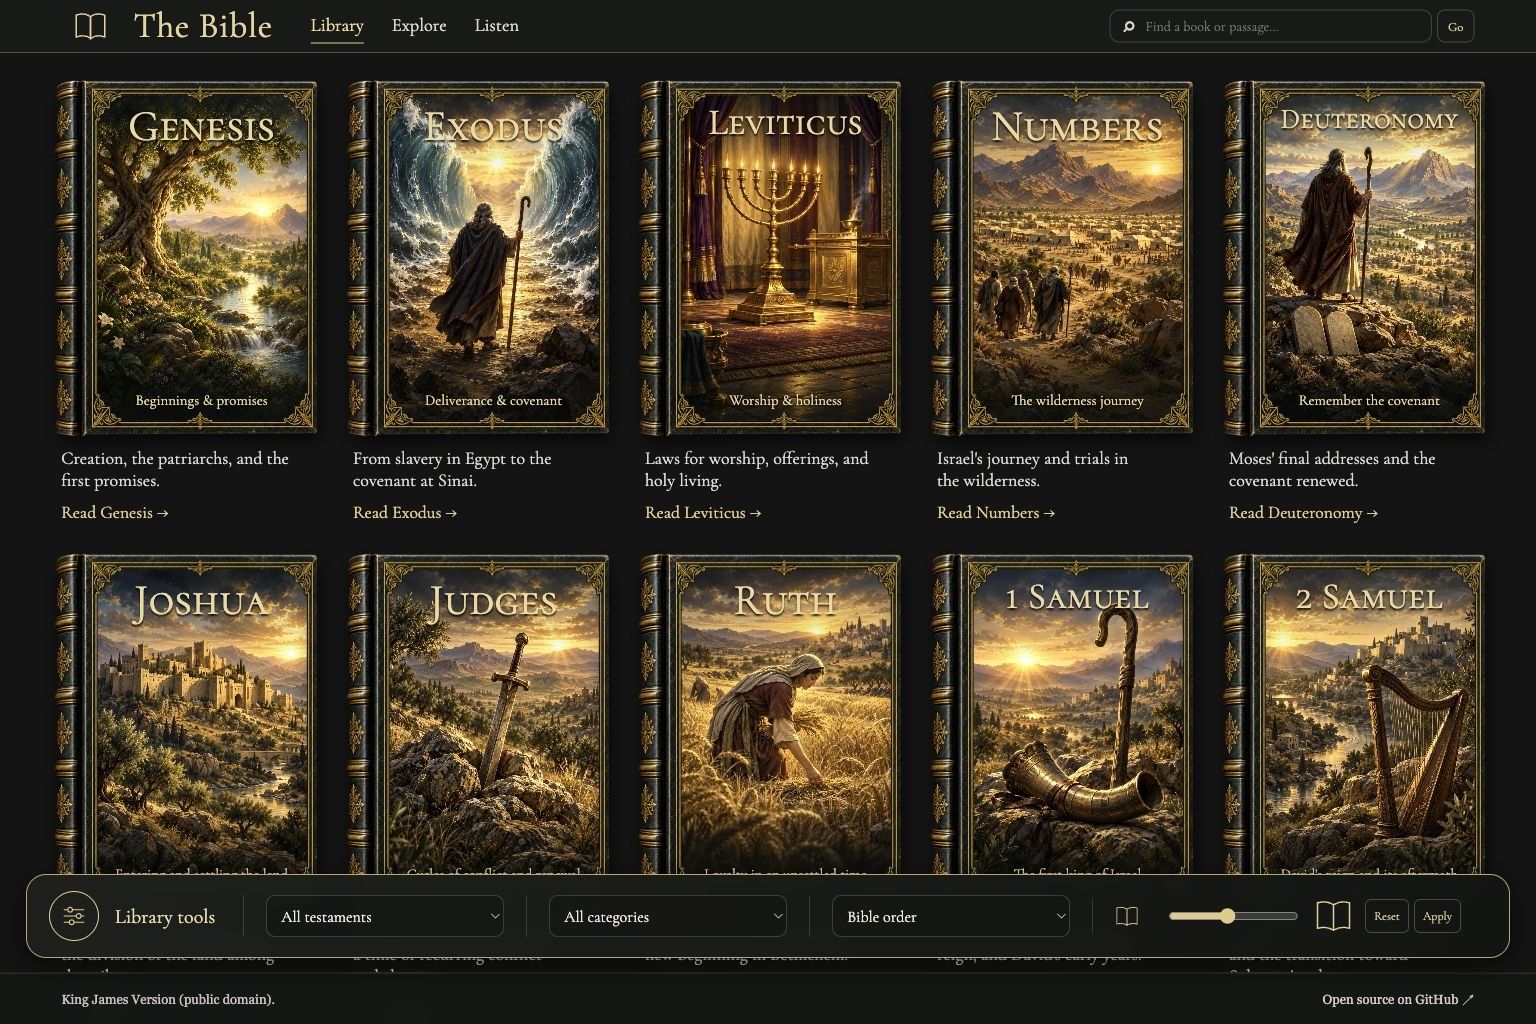
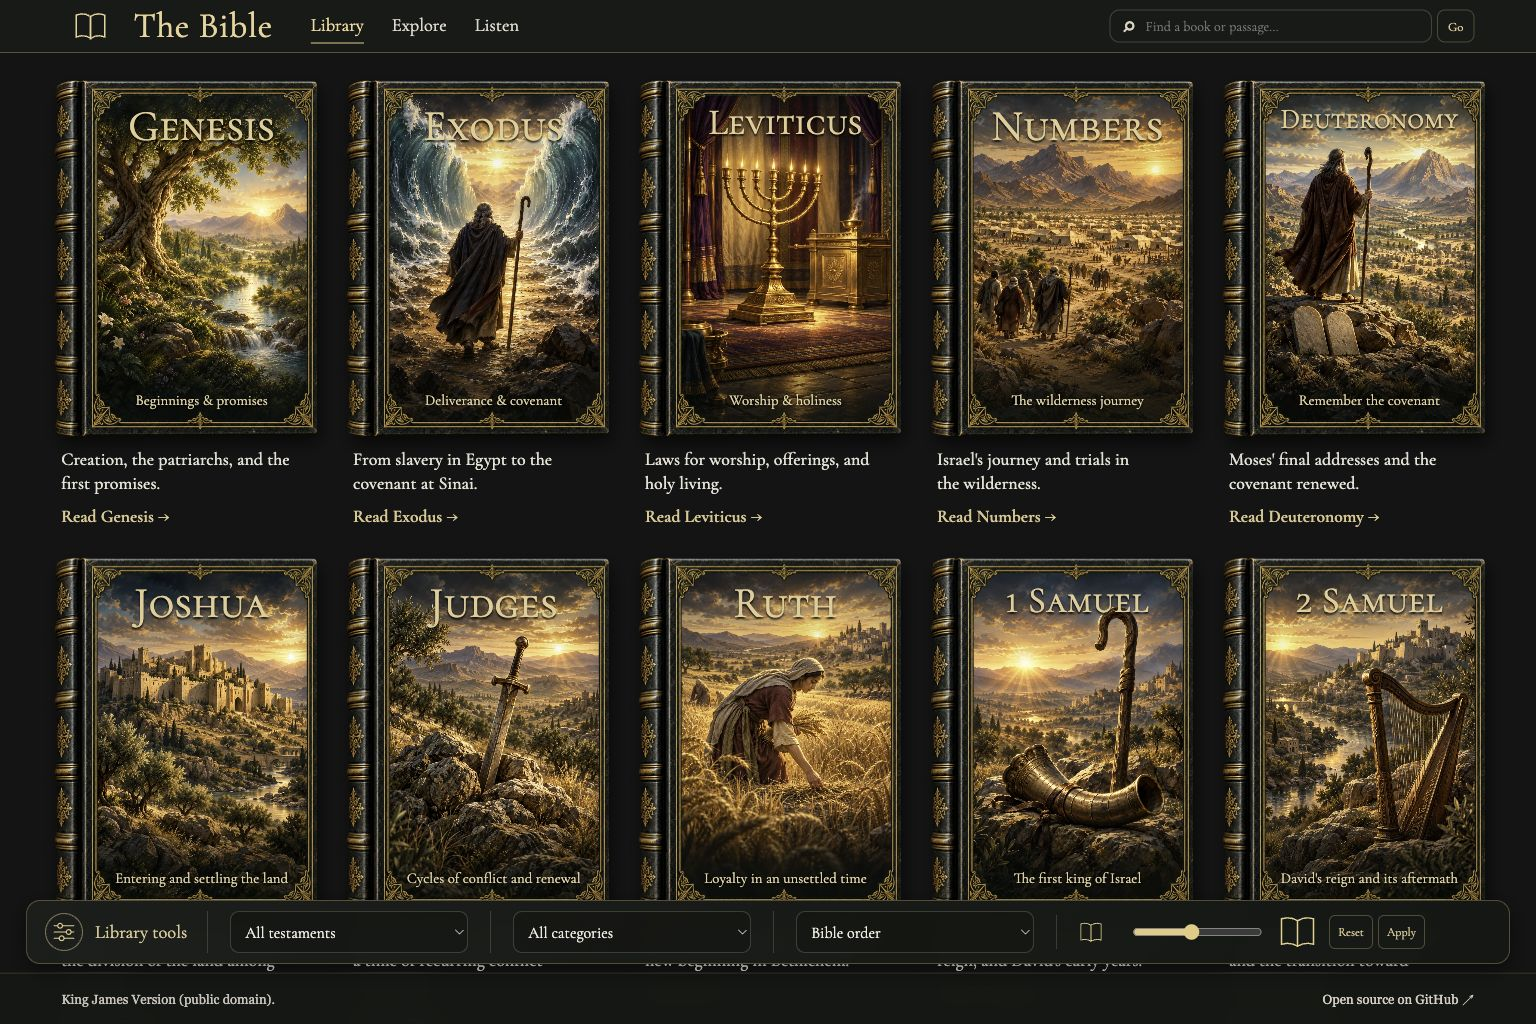
Improve Library readability and soften cover and toolbar styling

Changed region(s): [[0.0312, 0.4375, 0.9688, 0.9688]]

diff --git a/web/style.css b/web/style.css
@@ -168,11 +168,11 @@ main.wrap:has(.library-page){max-width:1536px;width:100%;padding:27px 3.6% 125px
 .book-category{display:none}
 .book-read-link{display:inline-block;margin-left:13px;color:#efcc80;font-size:1rem;line-height:1.4;min-height:26px}
 .book-cover:hover{transform:translateY(-3px);filter:drop-shadow(3px 12px 12px #000b);text-decoration:none}.book-cover:focus-visible{outline:2px solid #ffe2a5;outline-offset:5px}.book-read-link:focus-visible{outline:1px solid #ffe2a5;outline-offset:4px}
-.library-tools{position:fixed;z-index:10;left:26px;right:26px;bottom:22px;max-width:1484px;margin:0 auto;padding:16px 22px;background:linear-gradient(115deg,#1d201cf5,#111512f5);border:1px solid #c4a66c;border-radius:20px;box-shadow:0 8px 30px #000a;backdrop-filter:blur(16px);color:#f2d99e;font:1rem Georgia,'Times New Roman',serif}
-.library-tools[open]{display:flex;align-items:center;gap:28px}
-.library-tools summary{display:flex;align-items:center;gap:16px;list-style:none;cursor:pointer;white-space:nowrap;font-size:1.25rem;flex:none}
+.library-tools{position:fixed;z-index:10;left:26px;right:26px;bottom:22px;max-width:1484px;margin:0 auto;padding:10px 18px;background:linear-gradient(115deg,#1b1e1bf5,#131713f5);border:1px solid #a68d5870;border-radius:14px;box-shadow:0 6px 20px #0007;backdrop-filter:blur(16px);color:#e1c794;font:1rem Georgia,'Times New Roman',serif}
+.library-tools[open]{display:flex;align-items:center;gap:20px}
+.library-tools summary{display:flex;align-items:center;gap:12px;list-style:none;cursor:pointer;white-space:nowrap;font-size:1.15rem;flex:none}
 .library-tools summary::-webkit-details-marker{display:none}
-.library-tools summary::before{content:'☷';display:grid;place-items:center;width:48px;height:48px;border:1px solid #f3ce83;border-radius:50%;font:27px Georgia,serif;color:#efd08a}
+.library-tools summary::before{content:'☷';display:grid;place-items:center;width:36px;height:36px;border:1px solid #ccb27a90;border-radius:50%;font:27px Georgia,serif;color:#dfc58e}
 .library-tools summary:focus-visible{outline:2px solid #ecd195;outline-offset:5px;border-radius:4px}
 .library-tools form{display:flex;align-items:center;gap:12px;min-width:0;flex:1}
 .tools-fields{display:grid;grid-template-columns:minmax(120px,1fr) minmax(130px,1fr) minmax(120px,1fr) minmax(145px,1fr);gap:22px;flex:1;align-items:center;min-width:0}
@@ -188,7 +188,7 @@ main.wrap:has(.library-page){max-width:1536px;width:100%;padding:27px 3.6% 125px
 .library-empty{min-height:50vh;display:grid;align-content:center;text-align:center}.library-empty h2{font-size:2rem;color:#f1d69a}.library-empty p{color:#c9c0ad}
 body:has(.library-page) .site-footer{max-width:none;padding:16px 4%;margin:0 0 95px;font:13px Georgia,'Times New Roman',serif;color:#c9c5bc;border-color:#a99a6a55}
 body:has(.library-page) .site-footer a{color:#d7d0c1}
-@media(min-width:761px) and (max-width:1200px){.library-header .wrap{gap:22px}.library-header .site-navigation{gap:18px}.library-header .brand{font-size:1.6rem}.brand-mark{width:42px}.library-tools{padding:13px 16px}.library-tools[open]{gap:14px}.library-tools summary{font-size:1rem;gap:9px}.library-tools summary::before{width:36px;height:36px}.tools-fields{gap:12px;grid-template-columns:1fr 1fr 1fr 1fr}.tools-fields label{padding-left:12px}.tools-fields select{font-size:.86rem;padding:7px}.tools-fields label:last-child{gap:6px}.tools-fields label:last-child::before,.tools-fields label:last-child::after{display:none}.tools-actions{flex-direction:column}.tools-actions button{min-height:24px;padding:2px 5px}}
+@media(min-width:761px) and (max-width:1200px){.library-header .wrap{gap:22px}.library-header .site-navigation{gap:18px}.library-header .brand{font-size:1.6rem}.brand-mark{width:42px}.library-tools{padding:8px 14px}.library-tools[open]{gap:14px}.library-tools summary{font-size:1rem;gap:9px}.library-tools summary::before{width:36px;height:36px}.tools-fields{gap:12px;grid-template-columns:1fr 1fr 1fr 1fr}.tools-fields label{padding-left:12px}.tools-fields select{font-size:.86rem;padding:7px}.tools-fields label:last-child{gap:6px}.tools-fields label:last-child::before,.tools-fields label:last-child::after{display:none}.tools-actions{flex-direction:column}.tools-actions button{min-height:24px;padding:2px 5px}}
 @media(max-width:760px){.library-header .wrap{display:grid;grid-template-columns:1fr auto;gap:10px 12px;padding:12px 16px}.library-header .brand{font-size:1.45rem;gap:8px}.brand-mark{width:37px;height:29px}.library-header .site-navigation{gap:14px}.library-header .site-navigation a{font-size:.86rem}.library-header #lookup{grid-column:1/-1;min-width:0;max-width:none;margin:0;width:100%}.library-header #lookup input{font-size:16px;min-height:40px}.library-header #lookup button{font-size:15px;min-width:42px}main.wrap:has(.library-page){padding:22px 18px 180px}.library-grid{gap:23px 20px;grid-template-columns:repeat(auto-fit,minmax(min(100%,calc(var(--cover-width,240px)*.58)),1fr))}.library-card{max-width:340px}.cover-title{top:17px;font-size:clamp(1rem,12cqw,2rem)}.cover-title.long-title{font-size:clamp(.88rem,9cqw,1.75rem)}.cover-tagline{bottom:16px;font-size:clamp(.64rem,5.6cqw,.95rem);left:8px;right:8px}.cover-frame{inset:5px}.book-description{font-size:.88rem;line-height:1.4;margin-left:9px}.book-read-link{font-size:.9rem;margin-left:9px;min-height:36px}.library-tools{left:12px;right:12px;bottom:12px;padding:12px 15px;border-radius:16px;max-height:75vh;overflow-y:auto}.library-tools[open]{display:block}.library-tools summary{font-size:1.08rem;gap:11px}.library-tools summary::before{width:34px;height:34px;font-size:24px}.library-tools summary::after{content:'⌃';margin-left:auto;font-family:system-ui;font-size:20px}.library-tools:not([open]) summary::after{content:'⌄'}.library-tools form{display:block;min-width:0;margin-top:14px}.tools-fields{display:grid;grid-template-columns:minmax(0,1fr) minmax(0,1fr);gap:13px 10px}.tools-fields label{border:0;padding:0;font:11px/1.4 system-ui,sans-serif;display:block;color:#c3b793}.tools-fields select{font-size:.88rem;margin-top:4px;padding:8px;min-height:42px}.tools-fields label:last-child{display:flex;flex-wrap:wrap;gap:5px}.tools-fields label:last-child::before,.tools-fields label:last-child::after{display:none}.tools-fields input[type=range]{flex-basis:100%;width:100%;min-width:0}.tools-actions{margin-top:14px;justify-content:flex-end;gap:8px}.tools-actions button{font-size:.88rem;min-height:36px;padding:7px 15px}body:has(.library-page) .site-footer{padding:15px 18px;margin-bottom:90px;gap:10px;font-size:12px}}
 @media(prefers-reduced-motion:reduce){.book-cover{transition:none}.book-cover:hover{transform:none}}
 @media(max-width:760px){.library-grid{grid-template-columns:repeat(auto-fit,minmax(min(100%,calc(var(--cover-width,240px)*.58)),1fr))}}
@@ -226,7 +226,7 @@ body:has(.book-page) .library-header .wrap{padding-top:4px;padding-bottom:4px}ma
 @font-face{font-family:'Bible Display';src:url('/fonts/cormorant-garamond.ttf') format('truetype');font-style:normal;font-weight:300 700;font-display:swap}
 .library-header .brand,.library-header .site-navigation a,.library-header #lookup input,.library-header #lookup button,.library-card,.library-tools,.tools-fields select,.tools-actions button,.book-overview,.book-title,.book-chapters h2,.book-chapter-grid a,.book-actions a,.book-actions button,.book-breadcrumb{font-family:'Bible Display',Georgia,serif;font-weight:400}
 .library-header .brand{font-size:2.2rem}.library-header .site-navigation a{font-size:1.15rem}.library-header .wrap{padding-top:4px;padding-bottom:4px}
-main.wrap:has(.library-page){padding:24px 3.2% 125px}.library-grid{column-gap:22px}.book-description{font-size:1.12rem;line-height:1.25;margin-left:12px}.book-read-link{font-size:1.1rem;margin-left:12px}
+main.wrap:has(.library-page){padding:24px 3.2% 125px}.library-grid{column-gap:22px}.book-description{font-size:1.12rem;font-weight:500;line-height:1.35;color:#e8e2d5;margin-left:12px}.book-read-link{font-size:1.1rem;font-weight:600;color:#e2c58d;margin-left:12px}
 .book-volume .cover-title{top:7.7%;left:20%;right:7%;font-size:16cqw;line-height:1}.book-volume .cover-title.long-title{font-size:11.5cqw}.book-volume .cover-tagline{bottom:7.7%;left:20%;right:7%;font-size:3.2cqw;line-height:1.25;text-transform:uppercase;letter-spacing:.15em}
 .library-card .cover-title{top:7.7%;font-size:16cqw}.library-card .cover-title.long-title{font-size:11.5cqw}.library-card .cover-tagline{bottom:7.7%;left:20%;right:7%;font-size:5.5cqw}
 .book-begin,.book-chapter-grid .first-chapter{background:#edc47b url('/art/gold-foil.webp') center/cover;color:#21180d;border-color:#f3d69b;box-shadow:inset 0 0 0 1px #ffecb666,0 2px 14px #d9ad4122}.book-begin:hover,.book-chapter-grid .first-chapter:hover{background:#edc47b url('/art/gold-foil.webp') center/cover;filter:brightness(1.08)}
@@ -235,10 +235,12 @@ body:has(.library-page),body:has(.book-page){background:#121413;color:#e9e2d4}.l
 @media(max-width:1100px) and (min-width:761px){.book-actions{gap:10px}.book-actions a,.book-actions button{font-size:1.15rem;padding:12px}.book-title{font-size:8.5vw}.book-title.long-title{font-size:5.6vw}}
 @media(max-width:760px){.library-header .brand{font-size:1.65rem}.library-header .site-navigation a{font-size:1rem}.library-header .wrap{padding:10px 16px}main.wrap:has(.library-page){padding:22px 18px 180px}.library-grid{column-gap:17px}.book-description{font-size:1rem;line-height:1.25;margin-left:6px}.book-read-link{font-size:1rem;margin-left:6px}.book-artwork{width:72%;padding-left:0;max-width:300px}.book-volume{aspect-ratio:3/4}.book-title,.book-title.long-title{font-size:clamp(2.5rem,12vw,4rem);line-height:1}.book-title.long-title{font-size:clamp(2.2rem,10vw,3.5rem)}.book-introduction{font-size:1.35rem;line-height:1.35}.book-actions a,.book-actions button{font-size:1.25rem;min-height:54px;padding:12px;gap:10px}.book-actions svg{width:23px;height:23px}.book-chapters h2{font-size:1.9rem}.book-chapter-grid a{font-size:1.5rem}.tools-fields select{font-size:1rem}.library-tools summary{font-size:1.25rem}}
 @media(max-width:380px){.library-header .brand{font-size:1.4rem}.library-header .site-navigation a{font-size:.84rem}.library-header .wrap{padding:10px 12px}}
-@media(min-width:761px){.library-header .brand{line-height:1.1;min-height:44px}.book-volume .cover-title{font-size:18cqw}.book-volume .cover-title.long-title{font-size:12cqw}body:has(.library-page) .site-footer{position:fixed;left:0;right:0;bottom:0;z-index:9;min-height:48px;margin:0;background:#141714f5;backdrop-filter:blur(12px)}.library-tools{bottom:66px}}
+@media(min-width:761px){.library-header .brand{line-height:1.1;min-height:44px}.book-volume .cover-title{font-size:18cqw}.book-volume .cover-title.long-title{font-size:12cqw}body:has(.library-page) .site-footer{position:fixed;left:0;right:0;bottom:0;z-index:9;min-height:48px;margin:0;background:#141714f5;backdrop-filter:blur(12px)}.library-tools{bottom:60px}}
 .book-begin,.book-chapter-grid .first-chapter{background-image:linear-gradient(#efc77e66,#efc77e66),url('/art/gold-foil.webp')}
 .book-begin:hover,.book-chapter-grid .first-chapter:hover{background-image:linear-gradient(#efc77e66,#efc77e66),url('/art/gold-foil.webp')}
 .cover-art{filter:brightness(1.08) saturate(1.1)}.book-cover::after{background:linear-gradient(180deg,#08100b33,transparent 30%,transparent 70%,#07100b99)}.library-card .cover-tagline{font-size:clamp(.66rem,5.5cqw,1.05rem)}.book-volume .cover-tagline{font-size:clamp(.65rem,3.2cqw,1.2rem)}
+/* Quieter Library materials let the paintings and readable interface text lead. */
+.library-card .cover-art{filter:brightness(1.02) saturate(1.02)}.library-card .cover-binding{filter:brightness(.94) saturate(.82)}.library-card .cover-title{color:#e9cb92}.library-card .cover-tagline{color:#e7cf9d}
 .library-card .cover-title.medium-title,.book-volume .cover-title.medium-title{font-size:13.5cqw}.library-card .cover-title.long-title{font-size:10.5cqw}.book-volume .cover-title.long-title{font-size:10cqw}.book-title.medium-title{font-size:clamp(3.8rem,7.7vw,7.4rem)}
 @media(max-width:760px){.book-title.medium-title{font-size:clamp(2.5rem,10vw,4rem)}}
 .book-volume .cover-title.medium-title{font-size:13cqw}

diff --git a/README.md b/README.md
@@ -10,7 +10,7 @@ A KJV reader and illustrated Library with one shared Rust implementation. Run it
 
 The default homepage is a gallery of all 66 books, with individual painted cover illustrations, live HTML titles, short editorial descriptions, and chapter links. Each cover opens its book's chapter navigation; the **Read** link starts chapter 1.
 
-The floating **Library tools** bar filters by testament and category, sorts by Bible order, title, or chapter count, and changes cover size. Filters combine, selections are reflected in the URL, and **Reset** returns to all 66 books. On narrow screens the toolbar can collapse and the gallery adjusts to the available width. The header retains the reader's explicit fuzzy book suggestions and passage lookup.
+The Library uses medium-weight descriptions and stronger reading links, with restrained gold highlights on its dimensional covers. The compact floating **Library tools** bar filters by testament and category, sorts by Bible order, title, or chapter count, and changes cover size. Filters combine, selections are reflected in the URL, and **Reset** returns to all 66 books. On narrow screens the toolbar can collapse and the gallery adjusts to the available width. The header retains the reader's explicit fuzzy book suggestions and passage lookup.
 
 The 66 cover scenes were generated individually with built-in ImageGen from the approved Library reference. Titles, descriptions, links, and controls remain live HTML/CSS. A generated transparent binding overlay supplies the dimensional leather spine, raised bands, and ornate gold tooling; each painting remains a separate image. These illustrations and descriptions are editorial aids, separate from the KJV text. Original PNGs are preserved in `assets/imagegen/source/covers/`, optimized production WebPs in `web/art/covers/`, and prompts, source output identifiers, processing, and dimensions in [the asset manifest](assets/imagegen/manifest.json) and [per-book provenance](assets/imagegen/covers/). See [artwork notes](docs/library-artwork.md).
 

diff --git a/design-qa.md b/design-qa.md
@@ -31,3 +31,10 @@ The existing individual paintings differ from the exact generated mockup scenes.
 Supporting checks: 20 Rust tests, native compilation, WASM packaging, and formatting. Local real browser checks covered all 66 cover/overview titles, 320/390/768px gallery bounds, representative Read flows, and all affected medium-title corrections. Hosted controls, asset identity, audio, and navigation are accepted separately on the final pushed candidate. Physical device and independent acoustic checks are outside this browser run.
 
 final result: passed
+
+
+## Library readability and restraint polish
+
+Kept the dimensional binding, all 66 paintings, and approved gallery composition. Descriptions now use weight 500 with more line spacing; reading links use weight 600. Library-only CSS gently reduces the binding gold saturation and painting enhancement. The desktop floating tools bar is 64px tall at 1536px, down from 84px, with a softer border/shadow and smaller tool icon. Tablet padding is also reduced; mobile keeps its collapsible form and existing controls. Book overviews, reader, Tabernacle, and speech behavior are outside this presentation change.
+
+Fresh local browser layout checks cover all 66 card texts at 1536, 1024, 768, 390, and 320 CSS pixels. No horizontal overflow or clipped titles/descriptions were observed. The updated Library screenshot above is a real local browser capture. Hosted acceptance is recorded separately after publication; these local checks do not establish physical-device or acoustic qualification.
